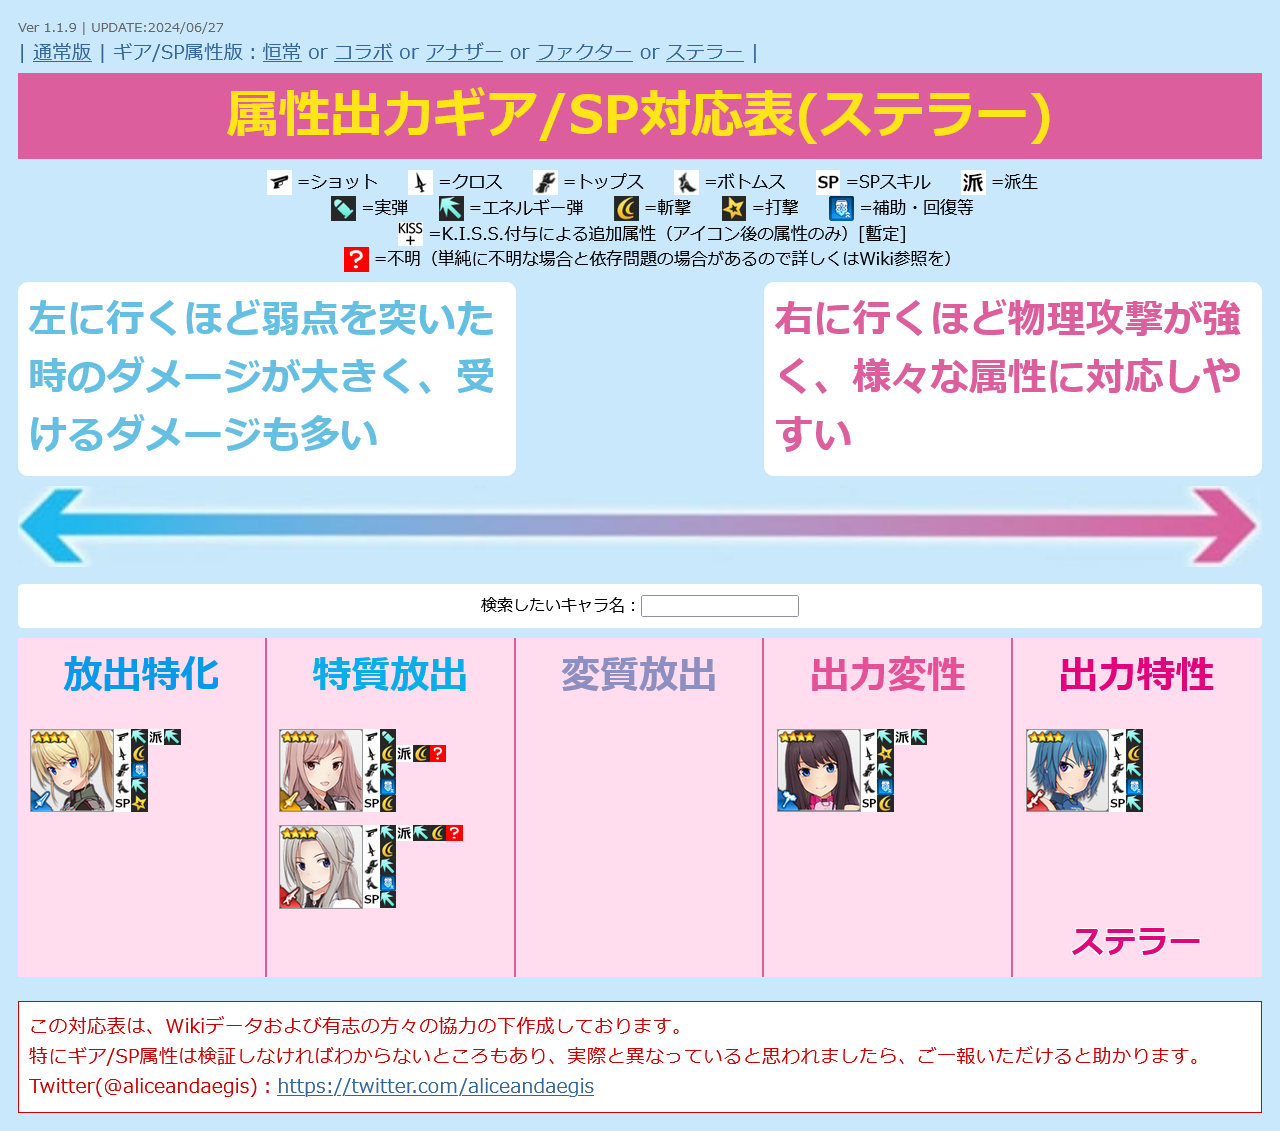
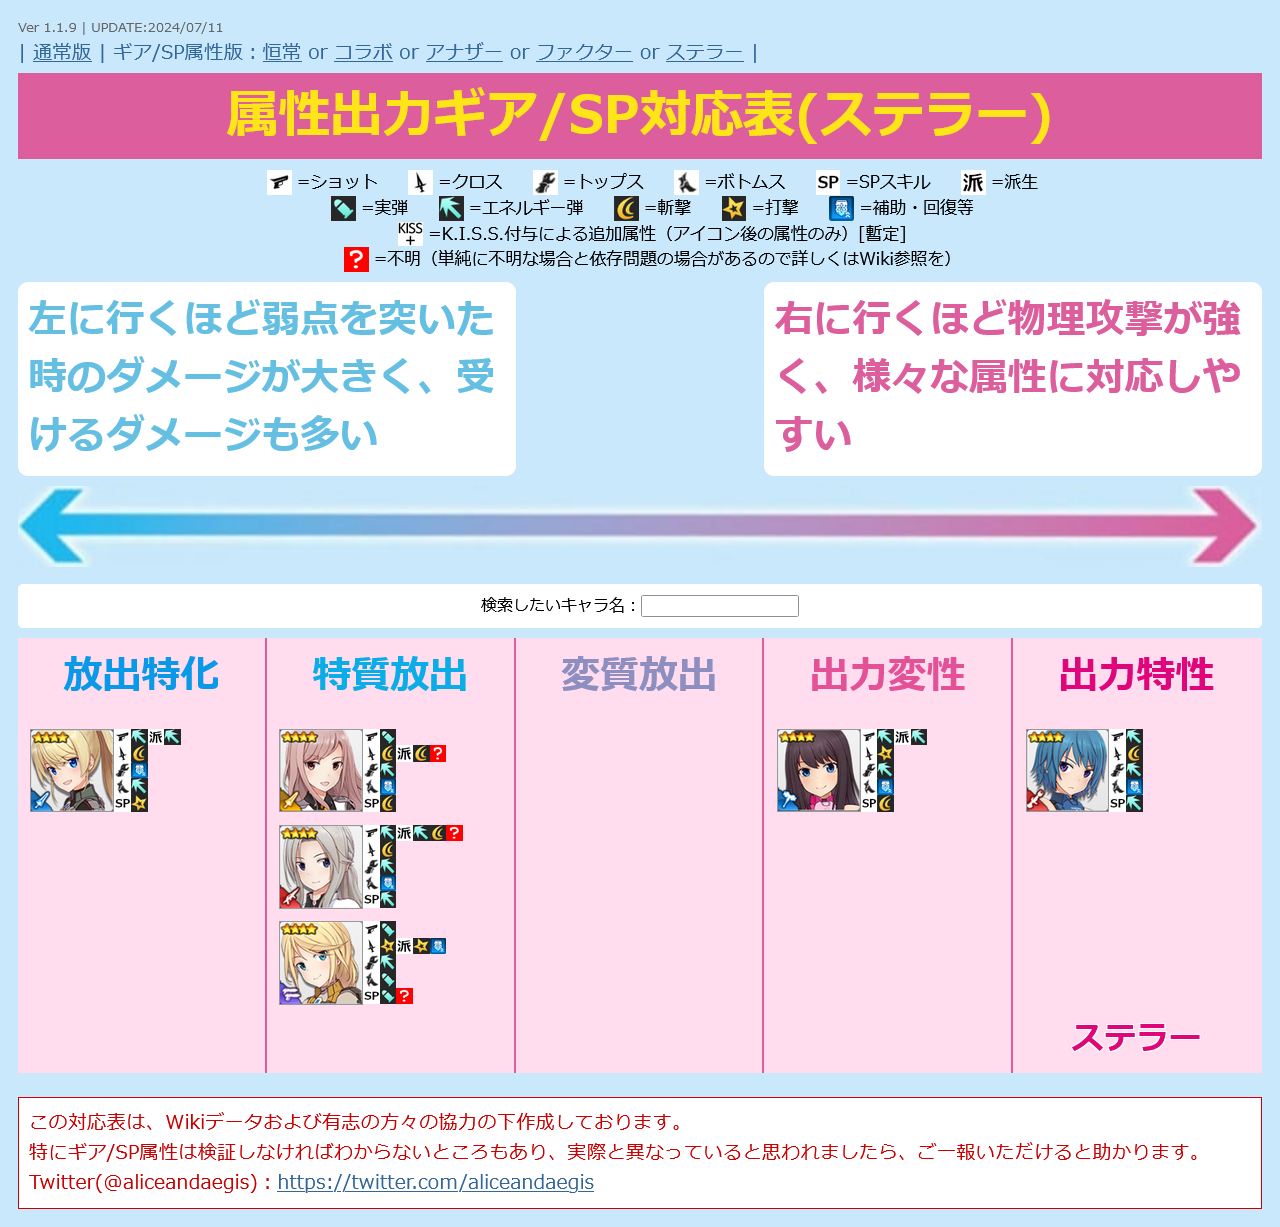
UPDATE charadata
・ステラー シャーリー・オークレイ / チャリオットを追加

diff --git a/alice.html b/alice.html
@@ -12,7 +12,7 @@
   <script>
 
 /* 更新情報 必要に応じて書き換えてください */
-  var version = "Ver 1.1.9 | UPDATE:2024/06/27";
+  var version = "Ver 1.1.9 | UPDATE:2024/07/11";
 
 
 /*
@@ -1355,6 +1355,20 @@
       "category": "10"
     },
     {
+      "id": "35",
+      "type": "2",
+      "src": "stellar-shirley.png",
+      "name": "シャーリー・オークレイ / チャリオット",
+      "equip1": "1",
+      "equip2": "4/45",
+      "equip3": "2",
+      "equip4": "1",
+      "sp": "1?",
+      "attr": "2",
+      "link": "https://wikiwiki.jp/alicegear/%E3%82%B7%E3%83%A3%E3%83%BC%E3%83%AA%E3%83%BC%E3%83%BB%E3%82%AA%E3%83%BC%E3%82%AF%E3%83%AC%E3%82%A4/%E3%83%81%E3%83%A3%E3%83%AA%E3%82%AA%E3%83%83%E3%83%88",
+      "category": "12"
+    },
+    {
       "id": "36",
       "type": "2",
       "src": "normal-mirie.png",
@@ -2271,9 +2285,9 @@
       "name": "小石川 エマ",
       "equip1": "2",
       "equip2": "4",
-      "equip3": "25?",
-      "equip4": "2?",
-      "sp": "2?",
+      "equip3": "25",
+      "equip4": "2",
+      "sp": "2",
       "attr": "3",
       "link": "https://wikiwiki.jp/alicegear/%E5%B0%8F%E7%9F%B3%E5%B7%9D%E3%82%A8%E3%83%9E",
       "category": "99"
@@ -2285,9 +2299,9 @@
       "name": "佐伯 リツカ",
       "equip1": "1",
       "equip2": "3",
-      "equip3": "15?",
-      "equip4": "35?",
-      "sp": "3?",
+      "equip3": "15",
+      "equip4": "35",
+      "sp": "3",
       "attr": "4",
       "link": "https://wikiwiki.jp/alicegear/%E4%BD%90%E4%BC%AF%E3%83%AA%E3%83%84%E3%82%AB",
       "category": "99"
@@ -2877,7 +2891,7 @@
   </script>
   <link rel="stylesheet" href="./css/main.css?v=20231128">
   <script src="./js/jquery.min.js?v=20231128"></script>
-  <script src="./js/main.js?v=20231128"></script>
+  <script src="./js/main.js?v=20240711"></script>
 </head>
 
 <body>

diff --git a/js/main.js b/js/main.js
@@ -30,7 +30,7 @@ $(function() {
     $('body').attr('id', 'equip4');
     $('h1').text('属性出力ギア/SP対応表(ファクター)');
   }else if(mode == 'equip5'){
-    $('body').attr('id', 'equip4');
+    $('body').attr('id', 'equip5');
     $('h1').text('属性出力ギア/SP対応表(ステラー)');
   }
 
